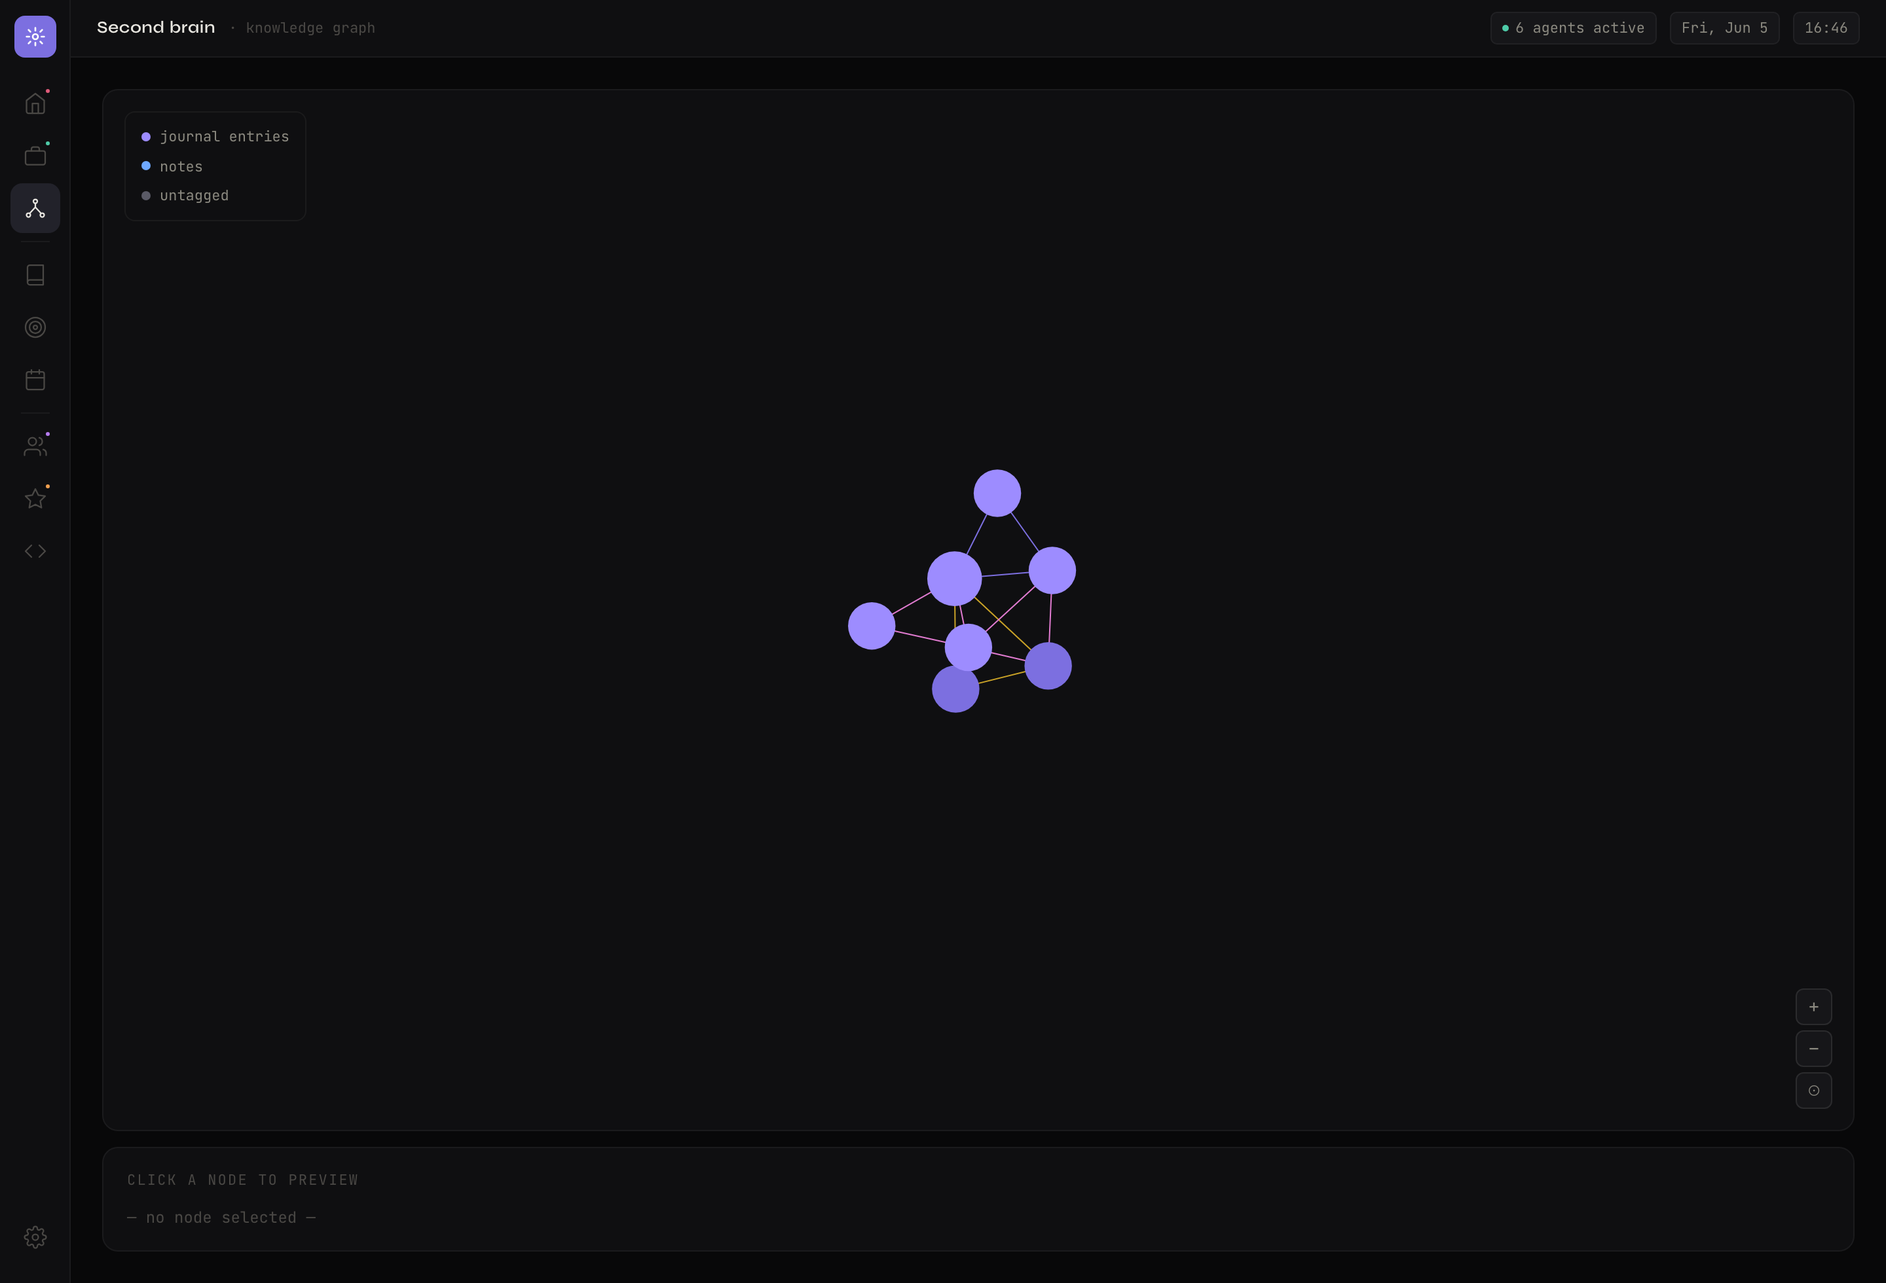
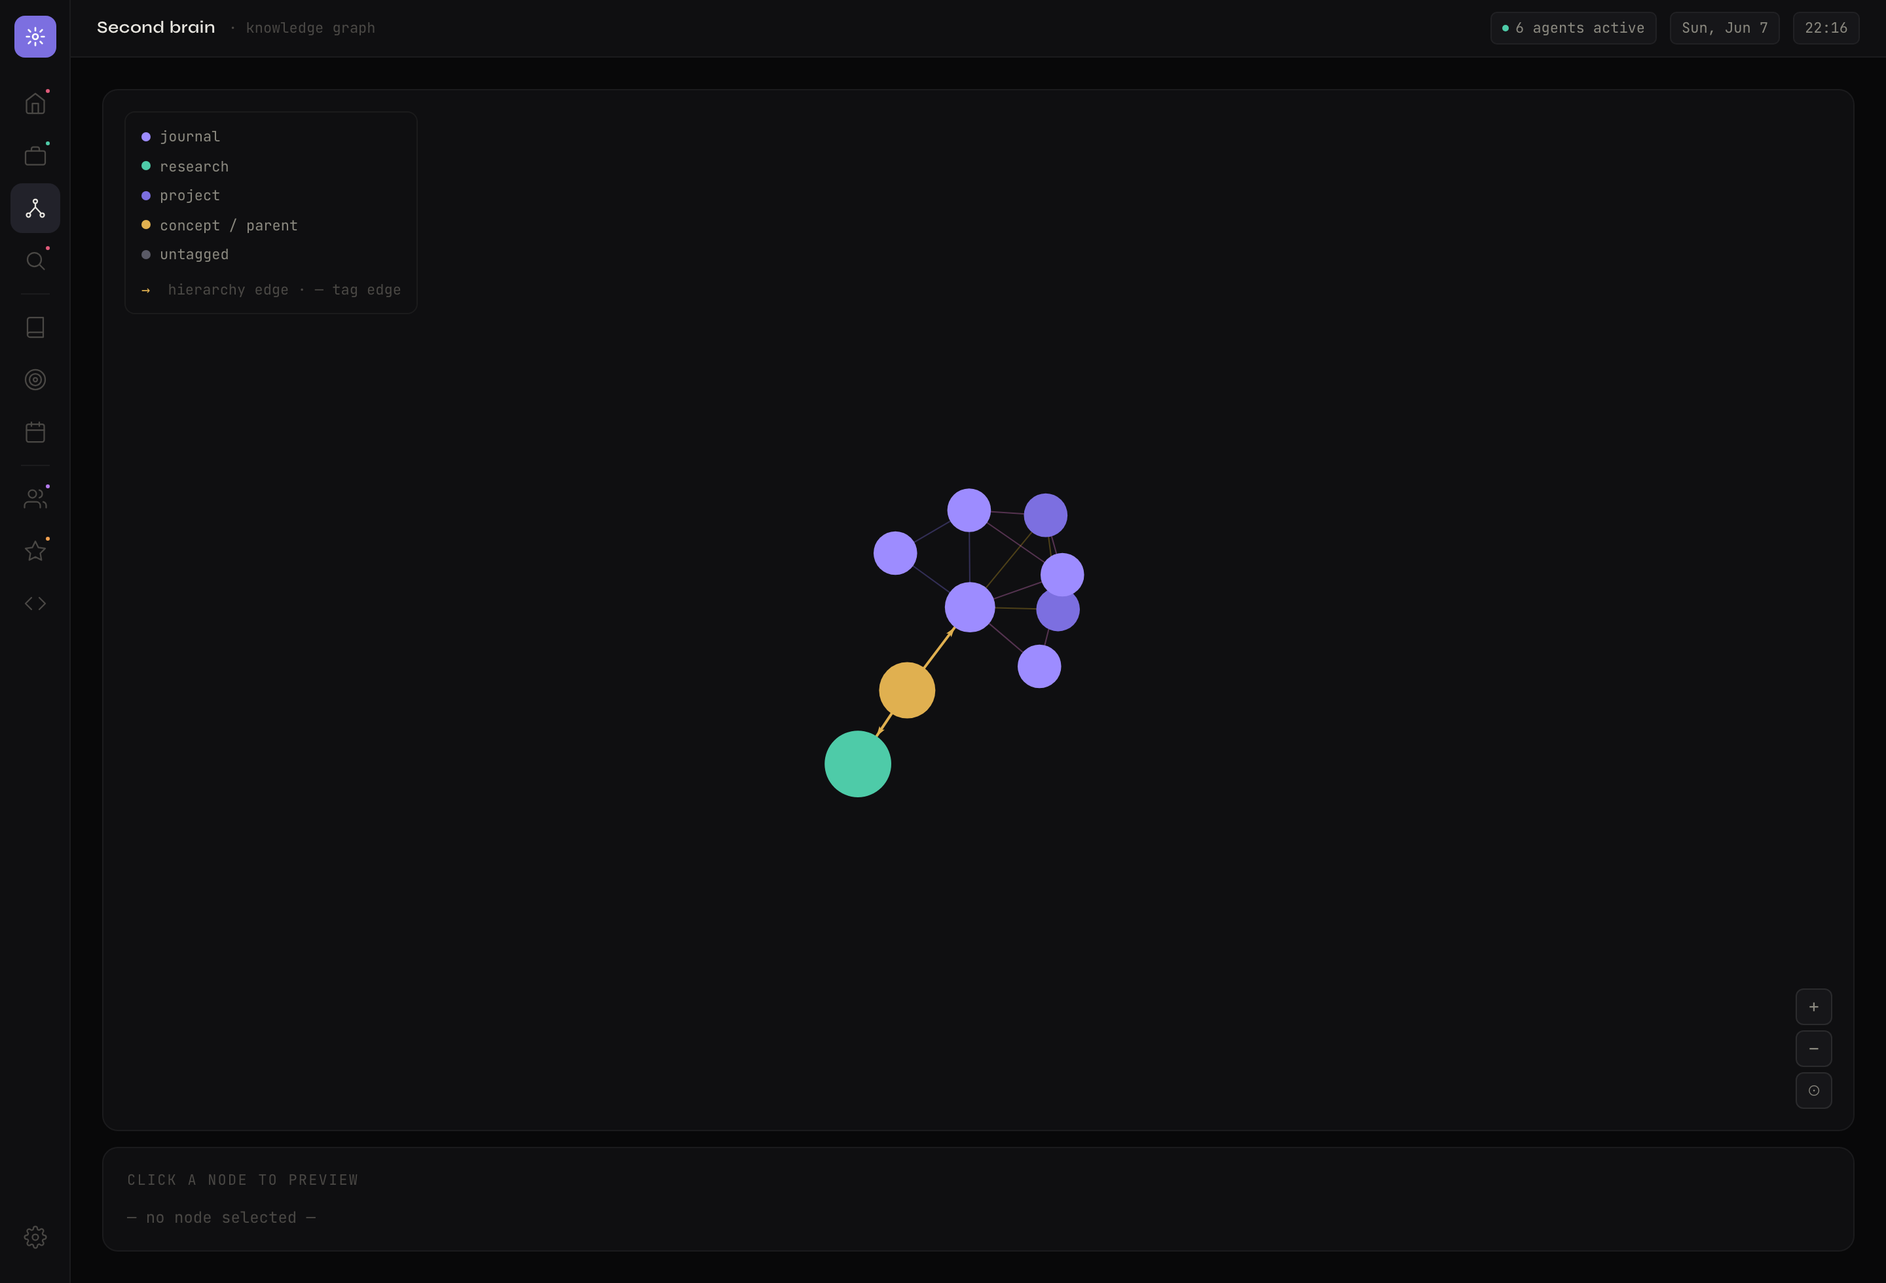
docs: Phase 9 research agent + hierarchical second brain
README: Research screen section + screenshot, hierarchy explained on the Second
brain screen (updated graph screenshot showing directed edges), research
capability + agents-table row, Phase 9 marked shipped. CLAUDE.md in lockstep
(new tables/files, notes hierarchy columns + migration note, priorities).

Changed region(s): [[0.4375, 0.3735, 0.5938, 0.5602], [0.4375, 0.5602, 0.4688, 0.6224], [0.0938, 0.1245, 0.125, 0.1556]]

diff --git a/CLAUDE.md b/CLAUDE.md
@@ -130,7 +130,9 @@ nexus/                       # repo root = the Vite + React frontend (port 5173)
 │       ├── CalendarView.jsx # upcoming events (user + email deadlines) + triaged inbox flags
 │       ├── ProjectsView.jsx # archivist: per-repo cards + AI change log + "scan now"
 │       ├── SettingsView.jsx # observability: cost cards + per-agent run/cost rows + daily trend + error log + brief interest-tag steering (gear nav)
+│       ├── ResearchView.jsx # chat research sessions; save → distilled node; "file under" parent/concept picker
 │       └── Placeholder.jsx  # stand-in for any remaining not-yet-built view
+# GraphView.jsx now also renders directed parent→child hierarchy edges (arrows) distinct from flat tag edges
 └── server/                  # nested Express package — long-running agent host (port 3001)
     ├── package.json         # backend deps + scripts (migrate:jobs, purge:jobs, gmail:auth)
     ├── .env.example         # .env itself is gitignored
@@ -148,7 +150,8 @@ nexus/                       # repo root = the Vite + React frontend (port 5173)
     │   ├── emailAgent.js    # read-only Gmail → batch classify → flags + deadlines + jobs.status flip
     │   ├── gmailAuth.js     # OAuth client + coded NO_CREDENTIALS/NEEDS_AUTH for graceful degradation
     │   ├── archivistAgent.js  # git log → Claude {summary,why,impact} → project_changes + tagged graph node; chokidar HEAD watch
-    │   └── claudeClient.js  # instrumented Anthropic wrapper EVERY agent routes through: trackedCreate logs tokens+cost to agent_usage; startRun/finishRun/withRun bracket agent_runs
+    │   ├── claudeClient.js  # instrumented Anthropic wrapper EVERY agent routes through: trackedCreate logs tokens+cost to agent_usage; startRun/finishRun/withRun bracket agent_runs
+    │   └── researchAgent.js # chat-based research sessions → distill conversation into one structured second-brain node; URL fetch + paste sources
     ├── db/
     │   ├── index.js         # better-sqlite3 connection; applies schema on open
     │   ├── schema.sql       # full shared-context schema (all tables)
@@ -160,6 +163,7 @@ nexus/                       # repo root = the Vite + React frontend (port 5173)
     │   ├── projectChangesRepo.js  # project_changes upsert + mirrors each change into a graph note
     │   ├── overviewRepo.js  # home dashboard: cross-agent stats + per-agent status + merged activity feed
     │   ├── observabilityRepo.js  # Settings: per-agent last/next run, errors, cost rollups (per agent/day) from agent_runs+agent_usage
+    │   ├── researchRepo.js  # research_sessions/messages + saveResearchNode (distilled node + tags + open_questions); notesRepo gained createConcept/setParent/listParents + directed graph edges
     │   ├── maintenance.js   # purgeStaleJobs() retention sweep (called by the cron)
     │   └── nexus.db         # the SQLite file (gitignored)
     ├── routes/
@@ -171,7 +175,8 @@ nexus/                       # repo root = the Vite + React frontend (port 5173)
     │   ├── email.js         # /status, /stats, /flags, POST /run
     │   ├── calendar.js      # GET / (upcoming, user+email events), POST / (user event)
     │   ├── overview.js      # GET / — one cross-agent snapshot for the home command center
-    │   └── observability.js # GET / — agent run history, errors, next-run, cost rollups (Settings panel)
+    │   ├── observability.js # GET / — agent run history, errors, next-run, cost rollups (Settings panel)
+    │   └── research.js      # research sessions/chat/source/save + open-questions; notes.js gained /concepts, /:id/parent, /parents
     └── scripts/
         ├── migrate-jobs.js  # one-time legacy jobs.json -> SQLite import (explicit path)
         ├── purge-stale-jobs.js  # delete unapplied jobs >30d old
@@ -183,7 +188,7 @@ nexus/                       # repo root = the Vite + React frontend (port 5173)
 ## Conventions
 
 - **Naming:** camelCase JS vars/functions, PascalCase React components, snake_case for SQL tables/columns.
-- **DB tables (all created in `server/db/schema.sql`):** `jobs`, `email_flags`, `calendar_events`, `goals`, `checkins`, `streaks`, `notes`, `tags`, `note_tags`, `morning_brief`, `morning_brief_items`, `project_changes`, `council_sessions`, `council_responses`, plus observability/steering: `agent_runs`, `agent_usage`, `brief_interests`. All are written by their agents (every table has an owner; `email_flags`/`calendar_events` populate once Gmail is authorized).
+- **DB tables (all created in `server/db/schema.sql`):** `jobs`, `email_flags`, `calendar_events`, `goals`, `checkins`, `streaks`, `notes`, `tags`, `note_tags`, `morning_brief`, `morning_brief_items`, `project_changes`, `council_sessions`, `council_responses`, observability/steering: `agent_runs`, `agent_usage`, `brief_interests`, and research: `research_sessions`, `research_messages`, `research_open_questions`. The `notes` table also gained hierarchy columns (`parent_id`, `node_type`, `is_concept`) via an additive migration in `db/index.js` (SQLite can't add columns through `CREATE TABLE IF NOT EXISTS`). All tables are written by their agents.
 - **Commits:** conventional commits (feat / fix / chore / docs) — confirm before relying on tooling that enforces it.
 - **Branches:** confirm with the project owner (not yet established).
 - **Error handling:** never swallow errors silently. Log with context — agents run unattended, so a silent failure is invisible.
@@ -223,7 +228,7 @@ nexus/                       # repo root = the Vite + React frontend (port 5173)
 6. **Phase 6 — Project archivist ✅ built:** `projectChangesRepo.js` + `archivistAgent.js` + `routes/projects.js` + `ProjectsView.jsx`. Git-log poll (30 min) + chokidar `.git/logs/HEAD` watch → Claude `{summary, why, impact}` → `project_changes` + auto-tagged `kind='project'` graph node. Sandboxed to `WATCHED_PROJECTS` (defaults to the Nexus repo). Verified live (7 commits → tagged nodes → 21 links; re-scan dedups). ⬜ owner adds their own repos to `WATCHED_PROJECTS`; optional `file_save` change_type later.
 7. **Home command center ✅ built:** `db/overviewRepo.js` + `routes/overview.js` (`GET /api/overview`) aggregate, in one read, live stat cards + per-agent status lines + a merged cross-agent activity feed (jobs/email/council/checkins/project_changes/brief). `HomeView.jsx` renders it as the dashboard (AGENTS panel + AGENT FEED + brief + goals snapshot; `onNavigate` jumps to any tab). Verified live in-browser against the real DB; topbar now reads "6 agents active".
 8. **Phase 8 — Observability & trust ✅ mostly done:** ✅ instrumented every agent run + Claude call (`agents/claudeClient.js` → `agent_runs`/`agent_usage`; `withRun`/`startRun`/`finishRun`; estimated cost from published per-model rates). ✅ `db/observabilityRepo.js` + `routes/observability.js` (`GET /api/observability`: per-agent last/next run, errors, cost per agent/day; next-run via `cron-parser`). ✅ `SettingsView.jsx` (gear) — cost cards, agent run/cost rows, daily trend, error log, + **brief interest-tag steering** (`brief_interests` table; `effectiveInterests()` merges user picks with learned). ✅ council voices tuned (concise, journal-grounded, Zeno bites). ⬜ remaining: first test suites per layer; prompt-cache cost audit; further triage/nudge tuning.
-9. **Phase 9 — Research agent + hierarchical second brain (NEXT — build now):** Build the **research agent** end-to-end first (repo → agent → routes → cron → React view): a chat-based research session (paste article / URL fetch / freeform Q&A / lecture dump / project session); the raw conversation is ephemeral, and on **save session** the agent condenses it into ONE permanent structured knowledge node (topic, summary, key concepts+tags, conclusions, **open questions**, sources, connected nodes) saved to the second brain. THEN layer in the **hierarchy** additively: `notes.parent_id` (nullable FK→notes.id), `notes.node_type` (journal/research/concept/archivist), `notes.is_concept`; a `directed` flag on graph links so the frontend renders parent→child edges differently from shared-tag edges. Three node levels: parent (org anchor, no content) → concept (middle) → leaf (content). **Do NOT change the tagging agent's flat shared-tag logic — hierarchy is additive.** Foundation for the eventual "Ask Nexus anything" query layer.
+9. **Phase 9 — Research agent + hierarchical second brain ✅ built:** ✅ **Research agent** end-to-end (`db/researchRepo.js` + `agents/researchAgent.js` + `routes/research.js` + `ResearchView.jsx`): chat sessions (paste text / `fetchUrl` / Q&A), ephemeral conversation, and **save session** → Claude distills it into ONE structured node (topic, summary, key-concept tags, conclusions, **open questions** in `research_open_questions`, sources) saved to the second brain (node_type='research', tagged → joins the graph). Verified live (vector-clocks + caching sessions → clean nodes + tracked open questions). ✅ **Hierarchy** layered additively: `notes.parent_id`/`node_type`/`is_concept` (migration in `db/index.js`); `createConcept`/`setParent`/`listParents`; `getGraph` emits **directed** parent→child links (`directed:true`, drawn with arrows) alongside flat tag edges; `GraphView` renders + color-codes them; Research "file under" picker + concept creation. **Tagging agent's flat shared-tag logic untouched.** Note: `node_type` is the new taxonomy column (legacy `kind` kept — a SQLite CHECK can't be altered in place). ⬜ next: the "Ask Nexus anything" query layer over the accumulated nodes; resurface open questions in the brief.
 10. **Phase 10 — Richer agents:** calendar month grid + two-way/recurring; quantified goals + reminders + weekly review; brief multi-source + save-for-later + TTS; email thread summaries + draft-reply *suggestions* (never auto-send) + per-sender rules; job-agent résumé/cover-letter drafts; archivist `file_save` + multi-repo + release notes.
 11. **Phase 11 — Proactivity & intelligence:** agents learn preferences over time; proactive cross-agent nudges; daily/weekly self-review across everything; per-task model routing (Haiku/Sonnet/Opus).
 12. **Phase 12 — New agents & reach:** finance/health/learning agents (same prompt+tables pattern); desktop/push notifications + responsive layout; one-command setup/packaging.

diff --git a/README.md b/README.md
@@ -11,7 +11,8 @@ The shared context **is** the product. Most AI assistants are a handful of disco
 - **Command center** — one home dashboard with live stats, every agent's status, and a merged activity feed across all of them.
 - **Job matching** — pulls live listings and ranks them against your résumé with Claude.
 - **Inbox triage** (read-only) — flags what's urgent, pulls deadlines onto your calendar, and updates job statuses when a recruiter writes back.
-- **Second brain** — journal entries and notes are auto-tagged and linked into a force-graph; shared tags become the edges.
+- **Second brain** — journal entries, notes, and research are auto-tagged and linked into a force-graph; shared tags become the edges, and an optional hierarchy (concepts → children) adds directional structure.
+- **Research agent** — a chat-based research interface; explore a topic (paste articles, fetch URLs, ask questions), then distill the whole session into one permanent structured knowledge node.
 - **Council of 5** — five AI personas debate your decisions and rants, challenge each other, and land on a consensus.
 - **Accountability** — tracks goals, maintains streaks, and sends a nightly streak-aware nudge.
 - **Morning brief** — learns your interests from your own notes (and tags you set) and curates a short daily news read.
@@ -47,9 +48,15 @@ Live listings fetched from Adzuna / The Muse / Jobicy, scored 0–100 against yo
 
 ### Second brain — the knowledge graph
 
-Every note (journal entry, free note, or an archivist's commit summary) is a **node**; any two notes that share a tag get an **edge**. The result is a force-directed graph (`react-force-graph-2d`) you can pan, zoom, and click to preview a node. Untagged notes show dim; well-connected themes cluster. This is the "nervous system" the council and morning brief read from. The edges are produced entirely by the **tagging agent** (described below).
+Every note (journal entry, research node, or an archivist's commit summary) is a **node**; any two notes that share a tag get an **edge**. The result is a force-directed graph (`react-force-graph-2d`) you can pan, zoom, and click to preview a node. Untagged notes show dim; well-connected themes cluster. On top of that flat, associative web sits an optional **hierarchy**: *concept* nodes are organizational anchors ("Interview Prep", "Projects") and any note can be filed under one, creating **directed parent→child edges** (drawn with arrows) that are distinct from the undirected tag edges. The flat layer is pure Zettelkasten; the hierarchy makes it navigable. This is the "nervous system" the council and morning brief read from.
 
 ![Second brain — the knowledge graph](docs/screenshots/graph.png)
+
+### Research — chat that becomes knowledge
+
+A chat-based research interface. Open a session on a topic, then have a real conversation — **paste articles, fetch a URL, ask follow-ups, go down rabbit holes**. The raw conversation is ephemeral working memory. When you're done, hit **save session** and the agent reads the *entire* conversation and distills it into one permanent, structured knowledge node: a topic, a summary of what you learned, key concepts (which become its tags), conclusions, the **open questions** that came up but went unanswered (tracked over time), and the sources used. You can file the node under a concept on save, so it joins the hierarchy. This is the system's richest source of new nodes — and the foundation of the eventual "Ask Nexus anything" query layer over everything you've learned.
+
+![Research — chat that distills into a knowledge node](docs/screenshots/research.png)
 
 ### Journal — free writing, auto-organized
 
@@ -234,6 +241,7 @@ npm run migrate:jobs /path/to/jobs.json   # one-time import of a legacy job-agen
 | **Morning brief** | Built (Phase 5) | Learns your interests from the second brain (note tags + goals) and user-set steering tags, fetches NewsAPI, and condenses ~6 stories into a morning read. Needs a real `NEWS_API_KEY`. |
 | **Project archivist** | Built (Phase 6) | Watches your code dirs, summarizes each commit with Claude into `project_changes` + a tagged second-brain graph node. Sandboxed to `WATCHED_PROJECTS`. Verified on this repo. |
 | **Tagging agent** | Live (Phase 3) | Behind-the-scenes: auto-tags every new note, reusing existing tags so the graph stays connected. |
+| **Research agent** | Built (Phase 9) | Chat-based research sessions that distill into one structured second-brain node (summary, concepts, conclusions, tracked open questions, sources). Paste text, fetch URLs, or freeform Q&A. |
 | **Observability layer** | Built (Phase 8) | Not an agent but the plumbing around them: instruments every run + Claude call into `agent_runs`/`agent_usage`, exposed via `GET /api/observability` and the Settings panel (run history, errors, next run, cost per agent/day). |
 
 ---
@@ -277,16 +285,11 @@ See [`CLAUDE.md`](./CLAUDE.md) for the full file-by-file tree and architecture n
 6. **Project archivist** — git watcher, AI change summaries, tagged graph nodes. Verified on this repo.
 7. **Home command center** — a cross-agent overview dashboard (stats + agent status + merged activity feed).
 8. **Observability & cost (Phase 8)** — every agent run + Claude call instrumented (`agent_runs` / `agent_usage`); a Settings panel with run history, surfaced errors, next-run times, and estimated cost per agent + per day; plus UI **agent-steering** tags for the morning brief. Council voices tuned (sharper, more concise, journal-grounded).
+9. **Research agent + hierarchical second brain (Phase 9)** — chat research sessions that distill into one structured knowledge node (summary, concepts, conclusions, tracked open questions, sources); plus a hierarchy layer (concept anchors, `parent_id`, directed parent→child graph edges) on top of the flat tag graph. The tagging agent's flat logic is left untouched.
 
-### Where it's headed (Phases 9+)
+### Where it's headed (Phases 10+)
 
-**Phase 8 (remaining) — Trust hardening.** Still open: first test suites per layer (repos / agents / routes), a prompt-cache cost audit, and further email-triage / nudge tuning.
-
-**Phase 9 — Research agent + a hierarchical second brain.** The richest new source of knowledge, and the structure to hold it.
-- **Research agent** — a chat-based research interface. Open a session, paste articles, fetch URLs, dump lecture notes, ask follow-ups, go down rabbit holes. The raw conversation is ephemeral; on **save session** the agent condenses the whole thing into one permanent, structured knowledge node: topic, what you learned, key concepts (tagged), conclusions reached, the **open questions** that came up but went unanswered, sources, and links to connected nodes. Input formats: pasted article text, raw URL fetch, freeform Q&A, lecture-note dumps, project working sessions.
-- **A hierarchy layer on the graph.** Today connections are purely associative (shared tags). Add directional parent→child structure so the flat web becomes a clustered, navigable knowledge graph. Three levels: **parent** nodes (pure organizational anchors — "Interview Prep", "Projects" — no content of their own), **concept** nodes (the middle layer — "Technical Communication" under Interview Prep), and **leaf** nodes (journal entries, research outputs, archivist summaries). Schema additions: `parent_id`, `node_type` (journal / research / concept / archivist), and `is_concept` on `notes`; a `directed` flag on graph links so the frontend renders hierarchy edges differently from tag edges. **Additive** — the tagging agent's flat-connection logic is left untouched.
-- **Cross-agent.** Research nodes link to a parent (interview prep → the Interview Prep node; project research → that project's node); their tags feed the morning brief; the council can reference your research when you ask related questions; open questions become trackable over time.
-- This is the foundation of **"Ask Nexus anything"** — once enough research/knowledge nodes exist, a query layer answers questions across your entire knowledge base, grounded in what you actually learned. The system becomes a record of your intellectual history: not just what you did, but what you understood and what you still don't know.
+**Phase 8/9 (remaining).** First test suites per layer (repos / agents / routes); a prompt-cache cost audit; **"Ask Nexus anything"** — a query layer over the accumulated knowledge/research nodes that answers across your whole second brain; resurfacing tracked open questions in the morning brief.
 
 **Phase 10 — Richer agents.** Each existing agent has an obvious next gear.
 - **Calendar** — full month grid, two-way + recurring events, reminders.
